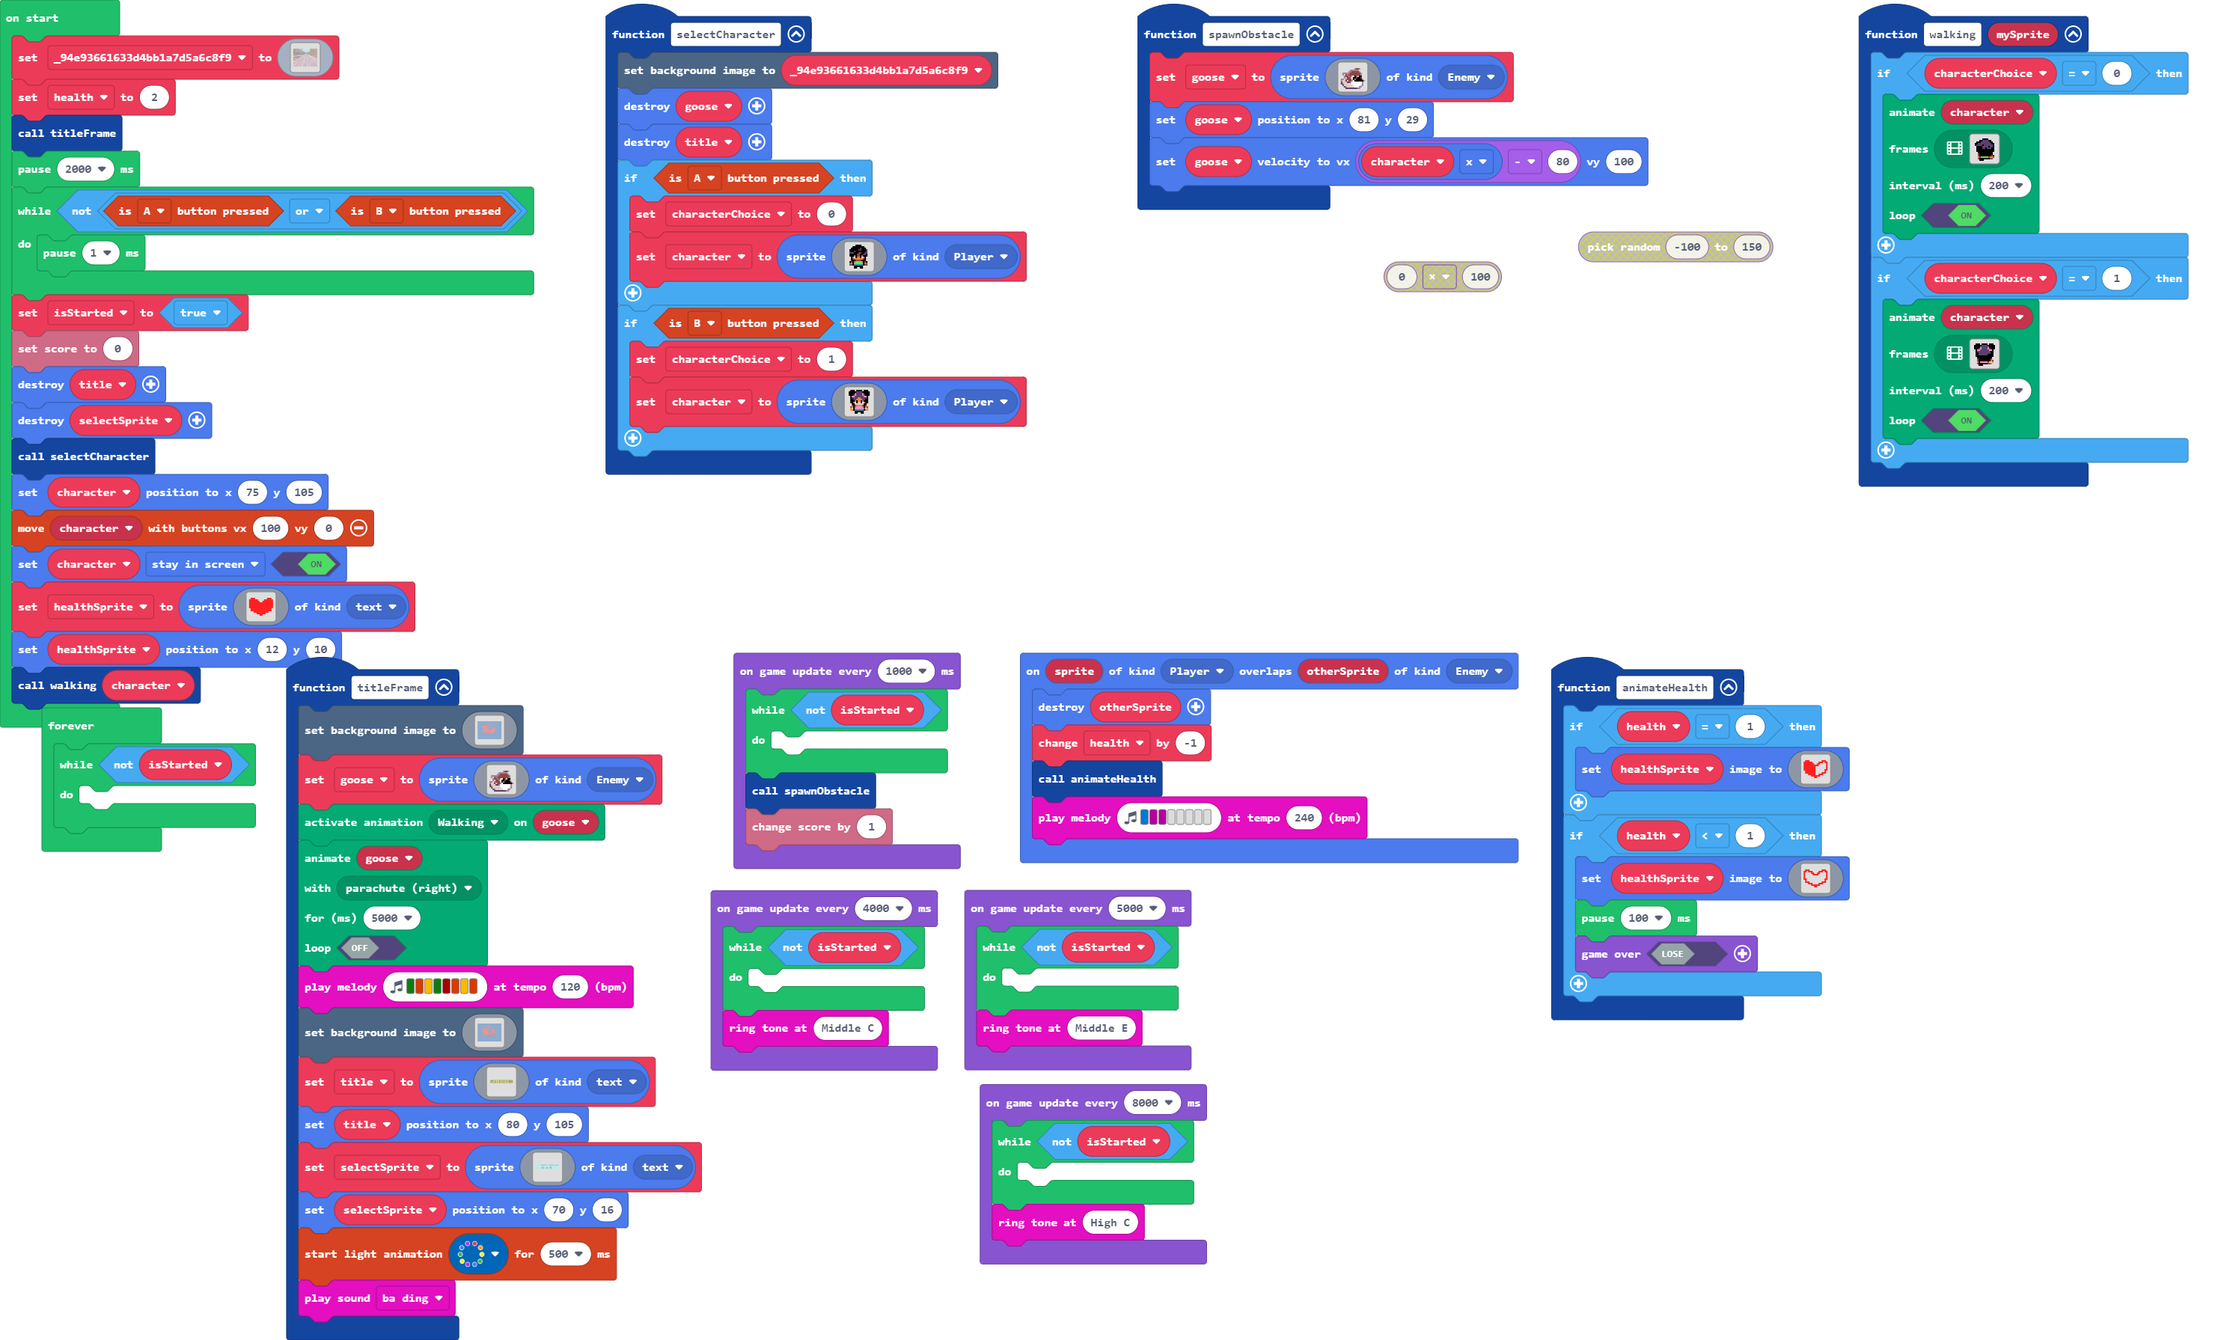
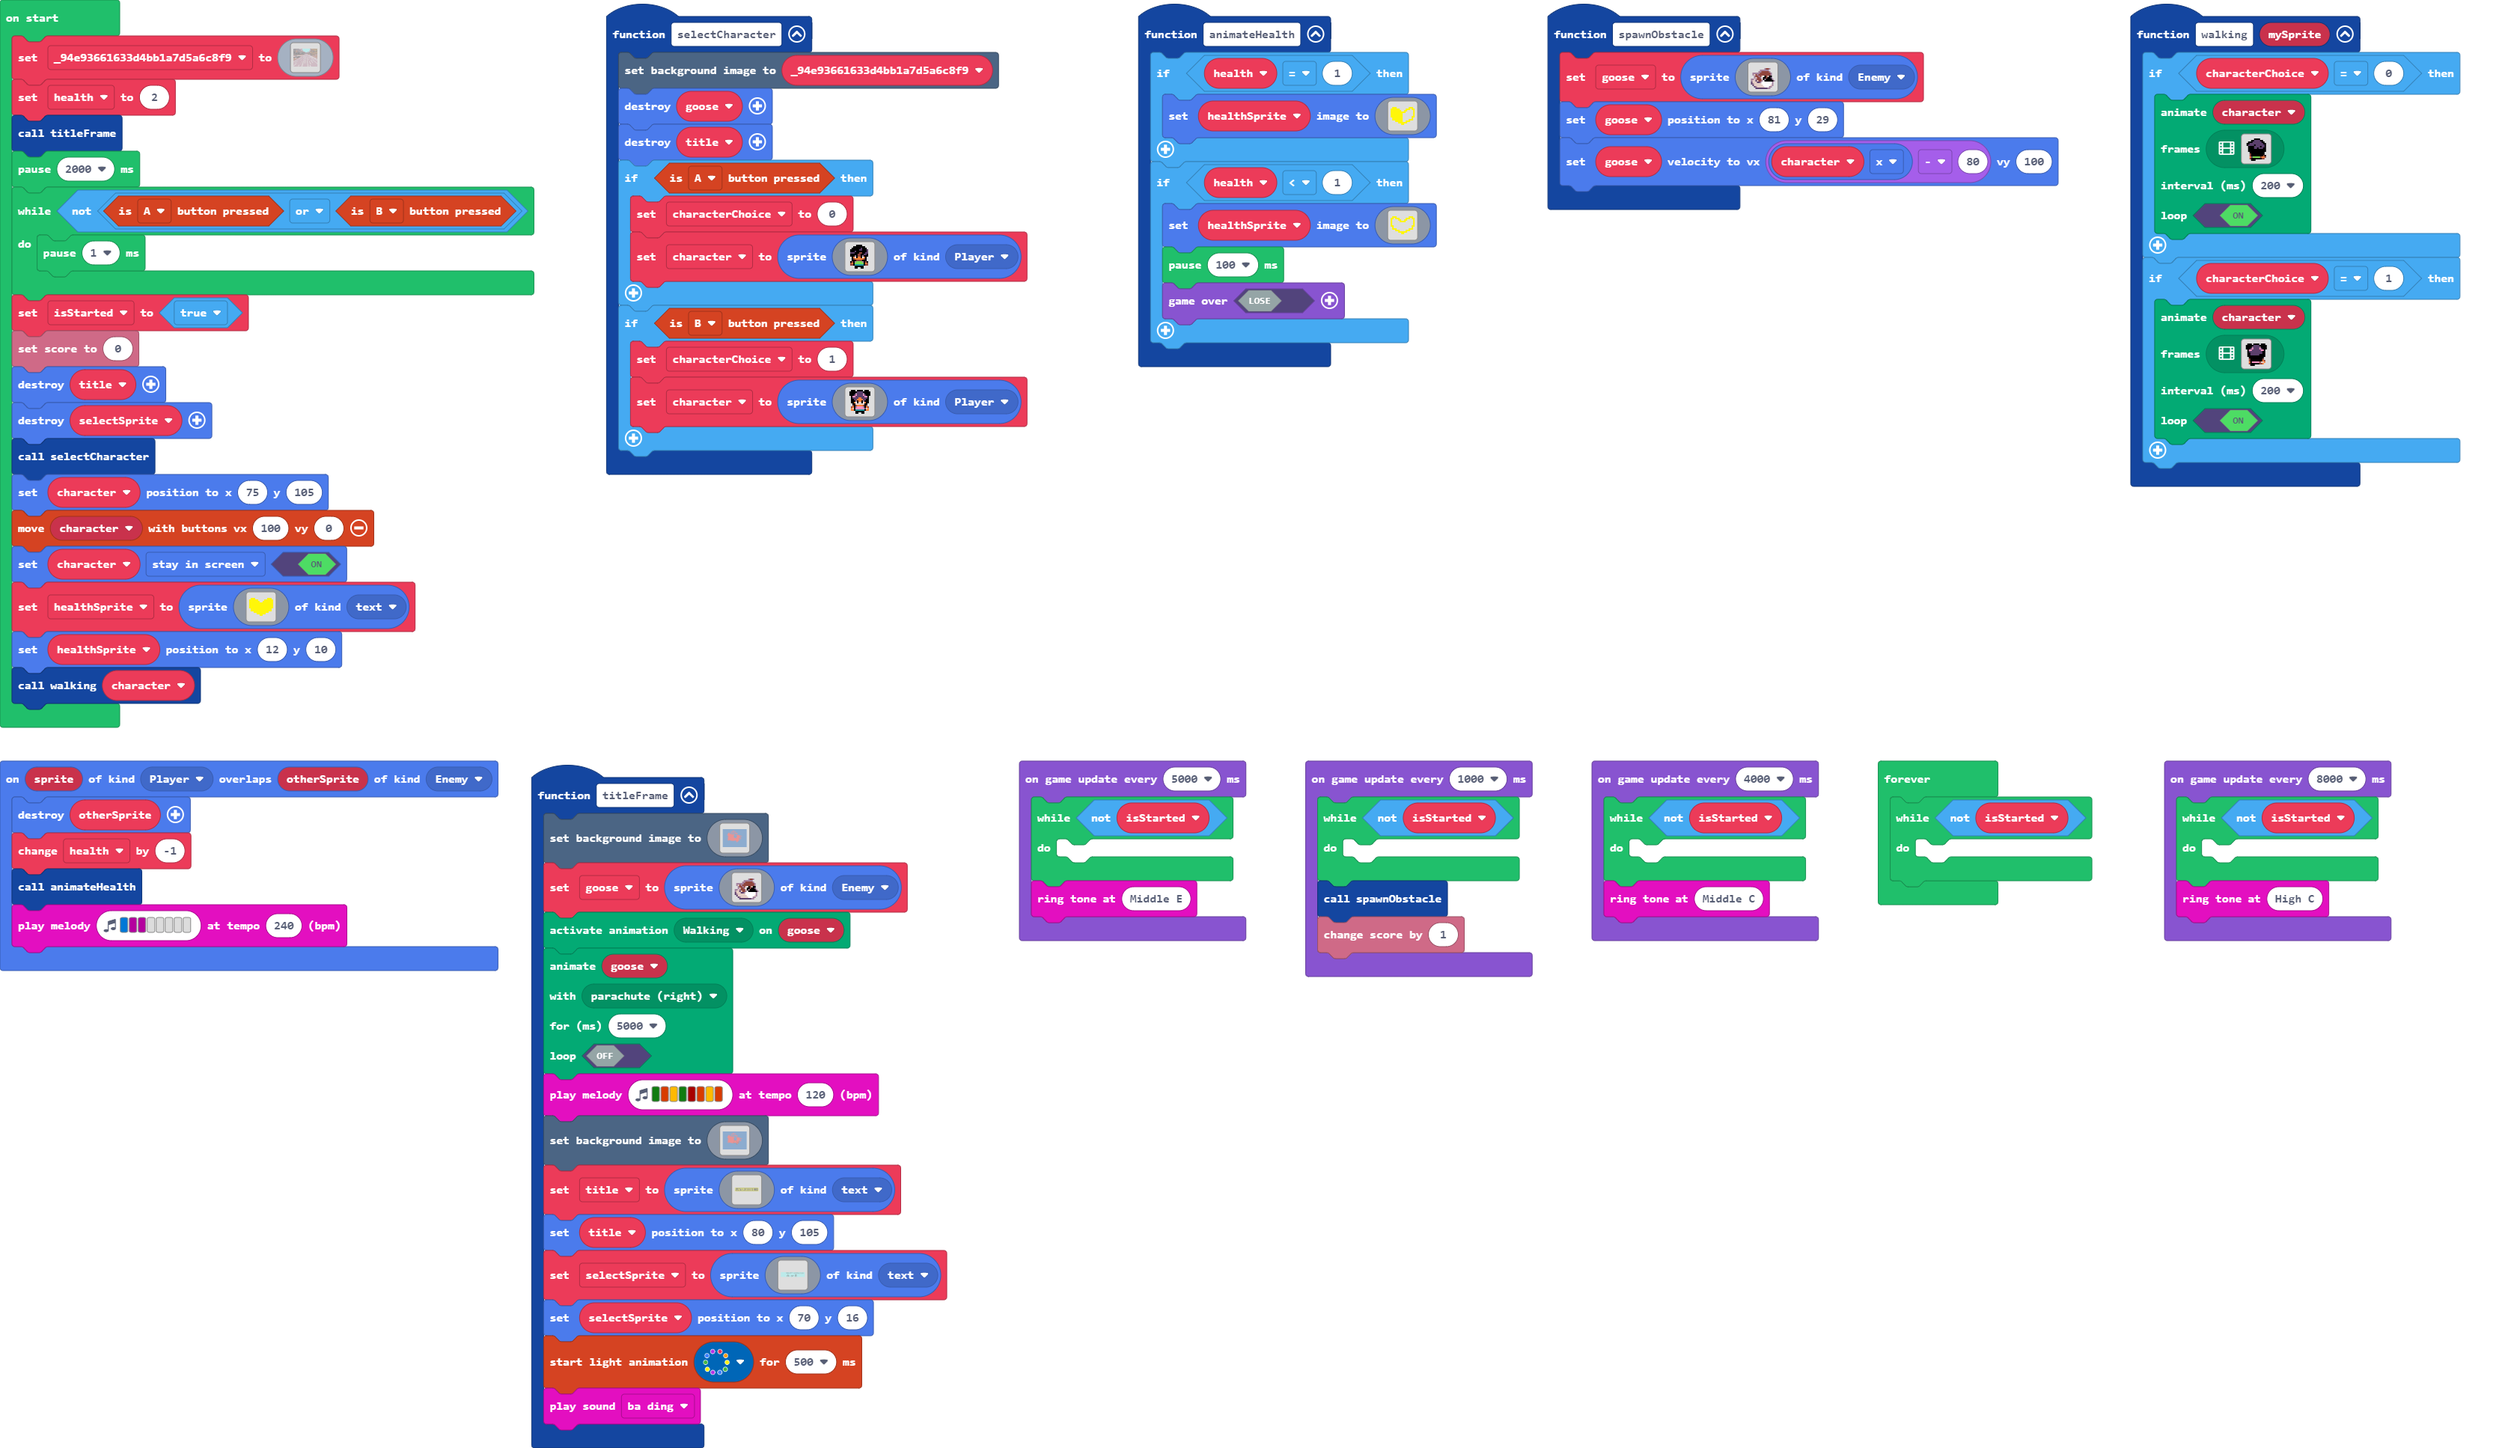
Update main.blocks, main.ts

diff --git a/main.ts b/main.ts
@@ -58,18 +58,18 @@ function animateHealth () {
         healthSprite.setImage(img`
             . . . . . . . . . . . . . . . . 
             . . . . . . . . . . . . . . . . 
-            . 2 2 2 . . . . . . . . 2 2 2 . 
-            2 2 2 2 2 2 . . . . 2 2 2 . 2 2 
-            2 2 2 2 2 2 2 . . 2 2 . . . . 2 
-            2 2 2 2 2 2 2 2 2 2 . . . . . 2 
-            2 2 2 2 2 2 2 2 . . . . . . . 2 
-            2 2 2 2 2 2 2 2 . . . . . . . 2 
-            2 2 2 2 2 2 2 2 . . . . . . 2 2 
-            . 2 2 2 2 2 2 2 . . . . . . 2 . 
-            . 2 2 2 2 2 2 2 . . . . 2 2 2 . 
-            . . . 2 2 2 2 2 . . 2 2 2 . . . 
-            . . . . . 2 2 2 2 2 2 . . . . . 
-            . . . . . . . 2 2 . . . . . . . 
+            . 5 5 5 . . . . . . . . 5 5 5 . 
+            5 5 5 5 5 5 . . . . 5 5 5 . 5 5 
+            5 5 5 5 5 5 5 . . 5 5 . . . . 5 
+            5 5 5 5 5 5 5 5 5 5 . . . . . 5 
+            5 5 5 5 5 5 5 5 . . . . . . . 5 
+            5 5 5 5 5 5 5 5 . . . . . . . 5 
+            5 5 5 5 5 5 5 5 . . . . . . 5 5 
+            . 5 5 5 5 5 5 5 . . . . . . 5 . 
+            . 5 5 5 5 5 5 5 . . . . 5 5 5 . 
+            . . . 5 5 5 5 5 . . 5 5 5 . . . 
+            . . . . . 5 5 5 5 5 5 . . . . . 
+            . . . . . . . 5 5 . . . . . . . 
             . . . . . . . . . . . . . . . . 
             . . . . . . . . . . . . . . . . 
             `)
@@ -78,18 +78,18 @@ function animateHealth () {
         healthSprite.setImage(img`
             . . . . . . . . . . . . . . . . 
             . . . . . . . . . . . . . . . . 
-            . 2 2 2 . . . . . . . . 2 2 2 . 
-            2 2 . 2 2 2 . . . . 2 2 2 . 2 2 
-            2 . . . . 2 2 . . 2 2 . . . . 2 
-            2 . . . . . 2 2 2 2 . . . . . 2 
-            2 . . . . . . . . . . . . . . 2 
-            2 . . . . . . . . . . . . . . 2 
-            2 2 . . . . . . . . . . . . 2 2 
-            . 2 . . . . . . . . . . . . 2 . 
-            . 2 2 2 . . . . . . . . 2 2 2 . 
-            . . . 2 2 2 . . . . 2 2 2 . . . 
-            . . . . . 2 2 2 2 2 2 . . . . . 
-            . . . . . . . 2 2 . . . . . . . 
+            . 5 5 5 . . . . . . . . 5 5 5 . 
+            5 5 . 5 5 5 . . . . 5 5 5 . 5 5 
+            5 . . . . 5 5 . . 5 5 . . . . 5 
+            5 . . . . . 5 5 5 5 . . . . . 5 
+            5 . . . . . . . . . . . . . . 5 
+            5 . . . . . . . . . . . . . . 5 
+            5 5 . . . . . . . . . . . . 5 5 
+            . 5 . . . . . . . . . . . . 5 . 
+            . 5 5 5 . . . . . . . . 5 5 5 . 
+            . . . 5 5 5 . . . . 5 5 5 . . . 
+            . . . . . 5 5 5 5 5 5 . . . . . 
+            . . . . . . . 5 5 . . . . . . . 
             . . . . . . . . . . . . . . . . 
             . . . . . . . . . . . . . . . . 
             `)
@@ -702,18 +702,18 @@ character.setFlag(SpriteFlag.StayInScreen, true)
 healthSprite = sprites.create(img`
     . . . . . . . . . . . . . . . . 
     . . . . . . . . . . . . . . . . 
-    . 2 2 2 . . . . . . . . 2 2 2 . 
-    2 2 2 2 2 2 . . . . 2 2 2 2 2 2 
-    2 2 2 2 2 2 2 . . 2 2 2 2 2 2 2 
-    2 2 2 2 2 2 2 2 2 2 2 2 2 2 2 2 
-    2 2 2 2 2 2 2 2 2 2 2 2 2 2 2 2 
-    2 2 2 2 2 2 2 2 2 2 2 2 2 2 2 2 
-    2 2 2 2 2 2 2 2 2 2 2 2 2 2 2 2 
-    . 2 2 2 2 2 2 2 2 2 2 2 2 2 2 . 
-    . 2 2 2 2 2 2 2 2 2 2 2 2 2 2 . 
-    . . . 2 2 2 2 2 2 2 2 2 2 . . . 
-    . . . . . 2 2 2 2 2 2 . . . . . 
-    . . . . . . . 2 2 . . . . . . . 
+    . 5 5 5 . . . . . . . . 5 5 5 . 
+    5 5 5 5 5 5 . . . . 5 5 5 5 5 5 
+    5 5 5 5 5 5 5 . . 5 5 5 5 5 5 5 
+    5 5 5 5 5 5 5 5 5 5 5 5 5 5 5 5 
+    5 5 5 5 5 5 5 5 5 5 5 5 5 5 5 5 
+    5 5 5 5 5 5 5 5 5 5 5 5 5 5 5 5 
+    5 5 5 5 5 5 5 5 5 5 5 5 5 5 5 5 
+    . 5 5 5 5 5 5 5 5 5 5 5 5 5 5 . 
+    . 5 5 5 5 5 5 5 5 5 5 5 5 5 5 . 
+    . . . 5 5 5 5 5 5 5 5 5 5 . . . 
+    . . . . . 5 5 5 5 5 5 . . . . . 
+    . . . . . . . 5 5 . . . . . . . 
     . . . . . . . . . . . . . . . . 
     . . . . . . . . . . . . . . . . 
     `, SpriteKind.text)
